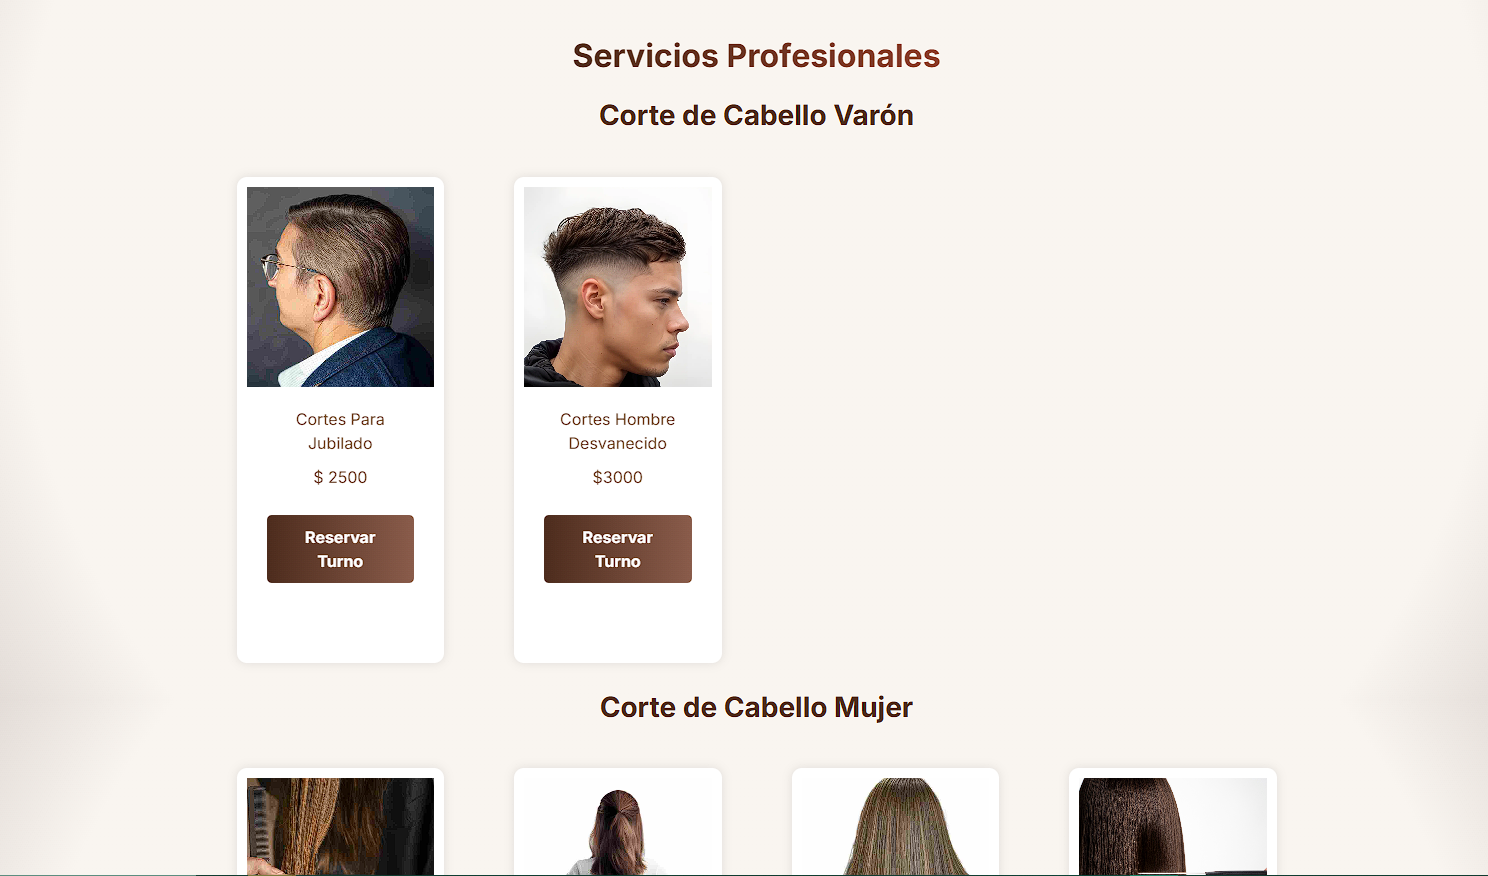
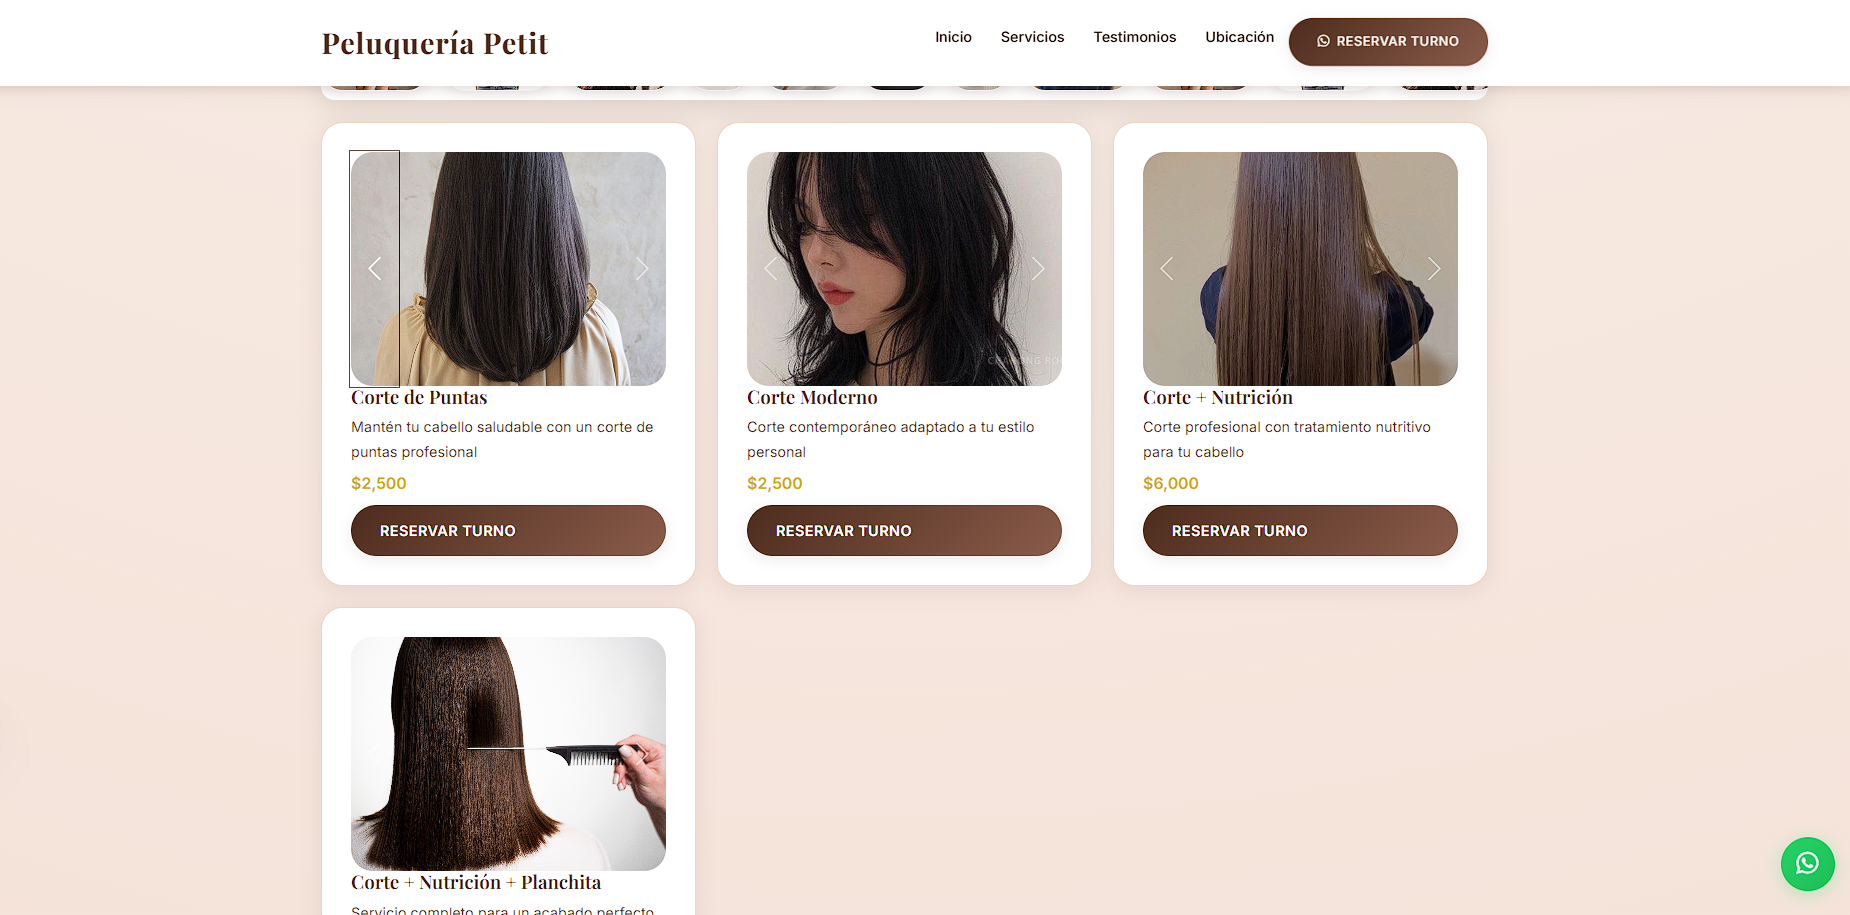
Refactor code structure for improved readability and maintainability

diff --git a/index.html b/index.html
@@ -496,7 +496,7 @@
             <div id="carouselDestacado" class="carousel-destacado">
               <div class="carousel-inner rounded-4 overflow-hidden carousel-tall">
                 <div class="carousel-item active">
-                  <img src="images/sistema odontologico.png" class="d-block w-100 project-img" loading="lazy" alt="Sistema Odontológico">
+                  <img src="images/sistemaodontologicoporta.PNG" class="d-block w-100 project-img" loading="lazy" alt="Sistema Odontológico">
                 </div>
                 <div class="carousel-item">
                   <img src="images/sistema 2.PNG" class="d-block w-100 project-img" loading="lazy" alt="Sistema Odontológico">
@@ -814,13 +814,13 @@
                 </div>
                 <div class="carousel-inner">
                   <div class="carousel-item active">
-                    <img src="images/peluporta.PNG" class="d-block w-100 project-img" alt="Sitio Web Peluquería Petit">
+                    <img src="images/peluporta2.png" class="d-block w-100 project-img" alt="Sitio Web Peluquería Petit">
                   </div>
                   <div class="carousel-item">
-                    <img src="images/peluqueriapetitweb.PNG" class="d-block w-100 project-img" alt="Sitio Web Peluquería Petit">
+                    <img src="images/pelu1.PNG" class="d-block w-100 project-img" alt="Sitio Web Peluquería Petit">
                   </div>
                   <div class="carousel-item">
-                    <img src="images/pelu3.PNG" class="d-block w-100 project-img" alt="Sitio Web Peluquería Petit">
+                    <img src="images/pelu2.PNG" class="d-block w-100 project-img" alt="Sitio Web Peluquería Petit">
                   </div>
                 </div>
                 <button class="carousel-control-prev" type="button" data-bs-target="#carousel3" data-bs-slide="prev">
